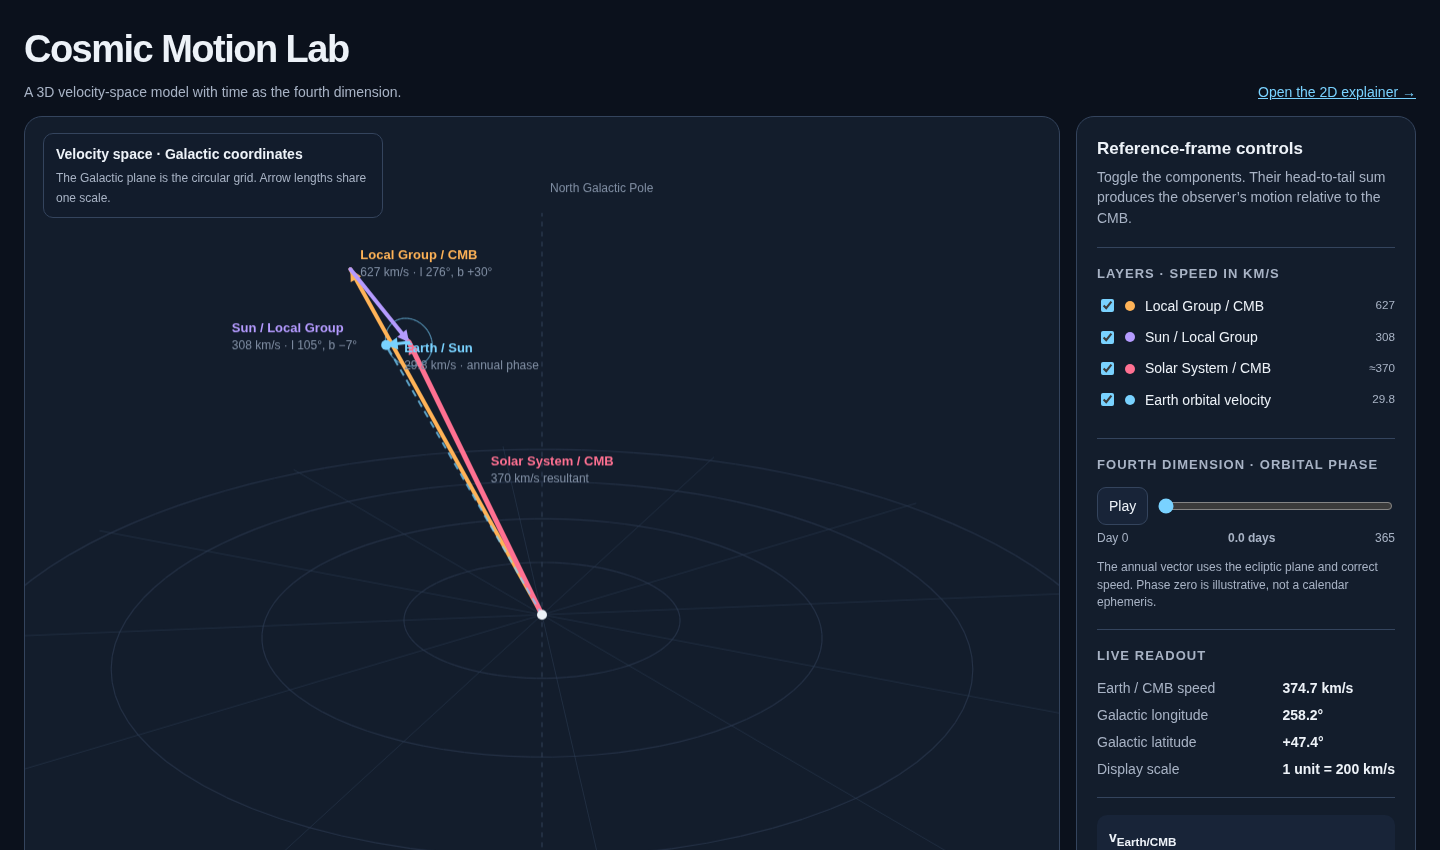
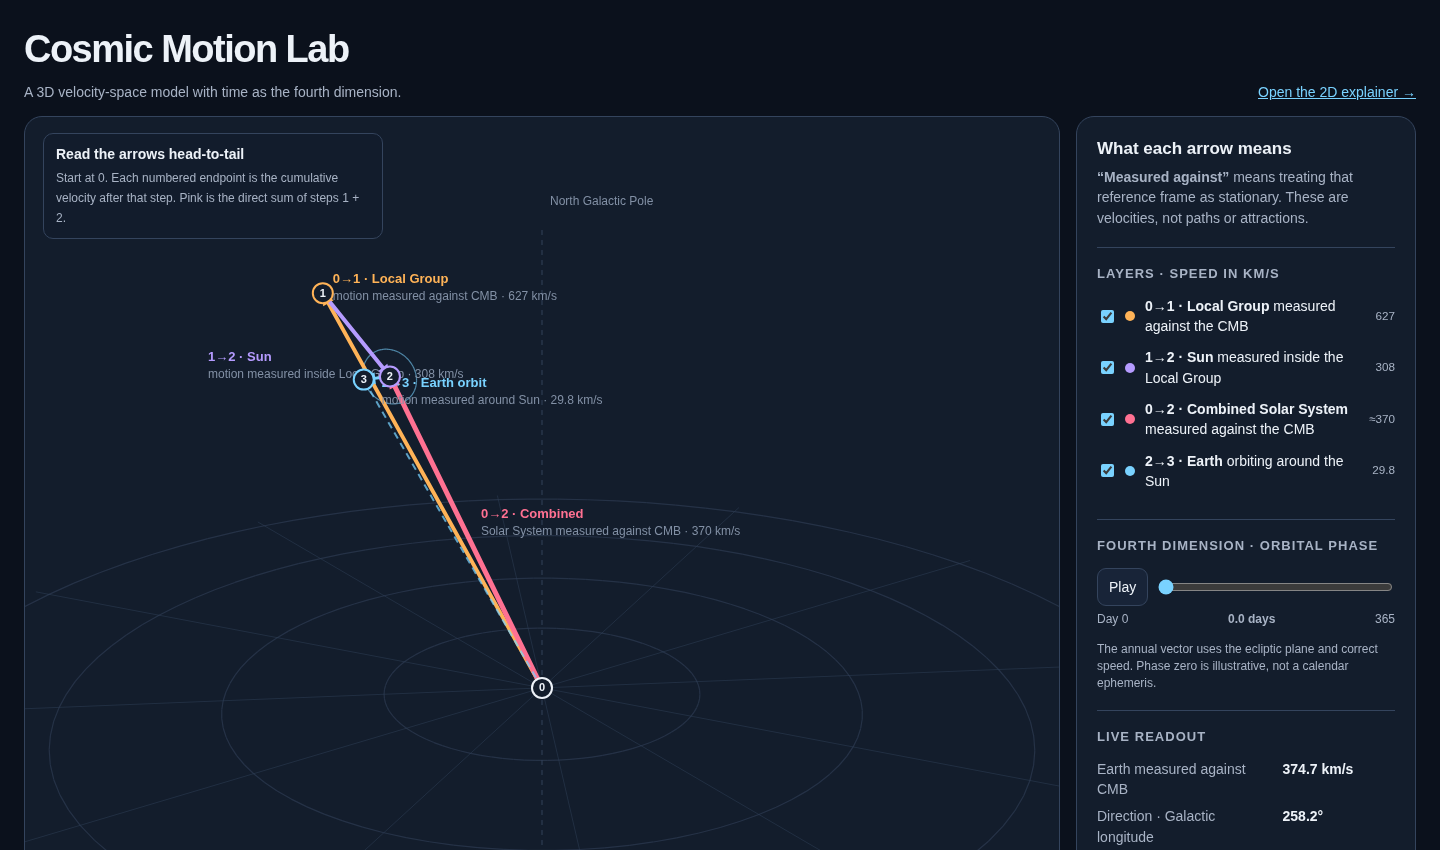
Clarify vector labels and reference frames

diff --git a/index.html b/index.html
@@ -57,18 +57,18 @@
   <main>
     <section class="stage" aria-label="Interactive three-dimensional velocity vector visualization">
       <canvas id="scene">Your browser needs Canvas support to display the interactive model.</canvas>
-      <div class="stage-note"><strong>Velocity space · Galactic coordinates</strong><span>The Galactic plane is the circular grid. Arrow lengths share one scale.</span></div>
+      <div class="stage-note"><strong>Read the arrows head-to-tail</strong><span>Start at 0. Each numbered endpoint is the cumulative velocity after that step. Pink is the direct sum of steps 1 + 2.</span></div>
       <div class="gesture">Drag to rotate · Scroll to zoom · Double-click to reset</div>
     </section>
     <aside>
-      <h2>Reference-frame controls</h2>
-      <p class="intro">Toggle the components. Their head-to-tail sum produces the observer’s motion relative to the CMB.</p>
+      <h2>What each arrow means</h2>
+      <p class="intro"><strong>“Measured against”</strong> means treating that reference frame as stationary. These are velocities, not paths or attractions.</p>
       <section class="group">
         <h3>Layers · speed in km/s</h3>
-        <label class="toggle"><input id="showLG" type="checkbox" checked /><span class="swatch" style="background:var(--cosmic)"></span><span>Local Group / CMB</span><small>627</small></label>
-        <label class="toggle"><input id="showSun" type="checkbox" checked /><span class="swatch" style="background:var(--local)"></span><span>Sun / Local Group</span><small>308</small></label>
-        <label class="toggle"><input id="showResult" type="checkbox" checked /><span class="swatch" style="background:var(--result)"></span><span>Solar System / CMB</span><small>≈370</small></label>
-        <label class="toggle"><input id="showEarth" type="checkbox" checked /><span class="swatch" style="background:var(--earth)"></span><span>Earth orbital velocity</span><small>29.8</small></label>
+        <label class="toggle"><input id="showLG" type="checkbox" checked /><span class="swatch" style="background:var(--cosmic)"></span><span><b>0→1 · Local Group</b> measured against the CMB</span><small>627</small></label>
+        <label class="toggle"><input id="showSun" type="checkbox" checked /><span class="swatch" style="background:var(--local)"></span><span><b>1→2 · Sun</b> measured inside the Local Group</span><small>308</small></label>
+        <label class="toggle"><input id="showResult" type="checkbox" checked /><span class="swatch" style="background:var(--result)"></span><span><b>0→2 · Combined Solar System</b> measured against the CMB</span><small>≈370</small></label>
+        <label class="toggle"><input id="showEarth" type="checkbox" checked /><span class="swatch" style="background:var(--earth)"></span><span><b>2→3 · Earth</b> orbiting around the Sun</span><small>29.8</small></label>
       </section>
       <section class="group">
         <h3>Fourth dimension · orbital phase</h3>
@@ -78,10 +78,10 @@
       </section>
       <section class="group">
         <h3>Live readout</h3>
-        <dl class="readout"><dt>Earth / CMB speed</dt><dd id="earthSpeed">—</dd><dt>Galactic longitude</dt><dd id="earthL">—</dd><dt>Galactic latitude</dt><dd id="earthB">—</dd><dt>Display scale</dt><dd>1 unit = 200 km/s</dd></dl>
+        <dl class="readout"><dt>Earth measured against CMB</dt><dd id="earthSpeed">—</dd><dt>Direction · Galactic longitude</dt><dd id="earthL">—</dd><dt>Direction · Galactic latitude</dt><dd id="earthB">—</dd><dt>Arrow-length scale</dt><dd>1 unit = 200 km/s</dd></dl>
       </section>
       <section class="group">
-        <div class="equation"><b>v<sub>Earth/CMB</sub></b><br />= v<sub>LG/CMB</sub> + v<sub>Sun/LG</sub> + v<sub>Earth/Sun</sub></div>
+        <div class="equation"><b>Final Earth velocity</b><br />Local Group’s cosmic motion <strong>+</strong> Sun’s local motion <strong>+</strong> Earth’s orbital motion</div>
         <p class="warning">This is velocity space, not a literal map of where the objects sit. Position orbits and velocity vectors are different geometries.</p>
       </section>
       <button id="reset" type="button">Reset view</button>
@@ -108,9 +108,10 @@
       function circle3(radius,normal,color,alpha=.55,center=[0,0,0]){const n=norm(normal),seed=Math.abs(n[1])<.9?[0,1,0]:[1,0,0],a=norm(cross(n,seed)),b=norm(cross(n,a));let previous=null;for(let i=0;i<=96;i++){const t=i/96*Math.PI*2,point=add(center,mul(add(mul(a,Math.cos(t)),mul(b,Math.sin(t))),radius));if(previous)line3(previous,point,color,1.2,alpha);previous=point}}
       function drawGrid(){[.8,1.6,2.4,3.2].forEach(r=>circle3(r,[0,1,0],colors.grid,.55));for(let i=0;i<12;i++){const t=i/12*Math.PI*2;line3([0,0,0],[3.3*Math.cos(t),0,3.3*Math.sin(t)],colors.grid,1,.45)}line3([0,-2.25,0],[0,2.25,0],colors.grid,1.2,.8,[5,5]);const n=project([0,2.35,0]);ctx.fillStyle=colors.muted;ctx.font="12px system-ui,sans-serif";ctx.fillText("North Galactic Pole",n.x+8,n.y)}
       function point3(v,r,color){const p=project(v);ctx.beginPath();ctx.arc(p.x,p.y,r,0,Math.PI*2);ctx.fillStyle=color;ctx.fill()}
+      function badge3(v,label,color){const p=project(v);ctx.save();ctx.beginPath();ctx.arc(p.x,p.y,10,0,Math.PI*2);ctx.fillStyle="#131d2c";ctx.fill();ctx.strokeStyle=color;ctx.lineWidth=2;ctx.stroke();ctx.fillStyle=colors.text;ctx.font="700 11px system-ui,sans-serif";ctx.textAlign="center";ctx.textBaseline="middle";ctx.fillText(label,p.x,p.y+.5);ctx.restore()}
       function toGalactic(v){const m=mag(v);let l=Math.atan2(v[2],v[0])/DEG;if(l<0)l+=360;return{speed:m/SPEED_SCALE,l,b:Math.asin(v[1]/m)/DEG}}
       function resize(){const dpr=Math.min(window.devicePixelRatio||1,2),rect=canvas.getBoundingClientRect();canvas.width=Math.round(rect.width*dpr);canvas.height=Math.round(rect.height*dpr);ctx.setTransform(dpr,0,0,dpr,0,0);state.dirty=true}
-      function render(){ctx.clearRect(0,0,canvas.clientWidth,canvas.clientHeight);drawGrid();const vEarth=earthOrbitalVector(state.phase),vObserver=add(vSunCMB,vEarth),narrow=canvas.clientWidth<600;if(ui.showEarth.checked)circle3(29.8*SPEED_SCALE,eclipticNorth,colors.earth,.6,vSunCMB);if(ui.showLG.checked)arrow3([0,0,0],vLG,colors.cosmic,"Local Group / CMB",narrow?"":"627 km/s · l 276°, b +30°",4,narrow?.88:1,narrow?8:10,-10);if(ui.showSun.checked)arrow3(vLG,vSunCMB,colors.local,"Sun / Local Group",narrow?"":"308 km/s · l 105°, b −7°",4,narrow?.3:.45,narrow?10:-145,narrow?54:30);if(ui.showResult.checked)arrow3([0,0,0],vSunCMB,colors.result,"Solar System / CMB",narrow?"":`${toGalactic(vSunCMB).speed.toFixed(0)} km/s resultant`,5,.52,narrow?22:18,narrow?40:-8);if(ui.showEarth.checked){arrow3(vSunCMB,vObserver,colors.earth,"Earth / Sun",narrow?"":"29.8 km/s · annual phase",3,1,narrow?16:18,narrow?-12:7);line3([0,0,0],vObserver,colors.earth,2,.72,[7,5]);point3(vObserver,5,colors.earth)}point3([0,0,0],5,colors.text);const r=toGalactic(vObserver);ui.earthSpeed.textContent=`${r.speed.toFixed(1)} km/s`;ui.earthL.textContent=`${r.l.toFixed(1)}°`;ui.earthB.textContent=`${r.b>=0?"+":""}${r.b.toFixed(1)}°`;ui.phaseValue.textContent=`${state.phase.toFixed(1)} days`}
+      function render(){ctx.clearRect(0,0,canvas.clientWidth,canvas.clientHeight);drawGrid();const vEarth=earthOrbitalVector(state.phase),vObserver=add(vSunCMB,vEarth),narrow=canvas.clientWidth<600;if(ui.showEarth.checked)circle3(29.8*SPEED_SCALE,eclipticNorth,colors.earth,.6,vSunCMB);if(ui.showLG.checked)arrow3([0,0,0],vLG,colors.cosmic,"0→1 · Local Group",narrow?"":"motion measured against CMB · 627 km/s",4,narrow?.88:1,narrow?8:10,-10);if(ui.showSun.checked)arrow3(vLG,vSunCMB,colors.local,"1→2 · Sun",narrow?"":"motion measured inside Local Group · 308 km/s",4,narrow?.3:.45,narrow?10:-145,narrow?54:30);if(ui.showResult.checked)arrow3([0,0,0],vSunCMB,colors.result,"0→2 · Combined",narrow?"":`Solar System measured against CMB · ${toGalactic(vSunCMB).speed.toFixed(0)} km/s`,5,.52,narrow?22:18,narrow?40:-8);if(ui.showEarth.checked){arrow3(vSunCMB,vObserver,colors.earth,"2→3 · Earth orbit",narrow?"":"motion measured around Sun · 29.8 km/s",3,1,narrow?16:18,narrow?-12:7);line3([0,0,0],vObserver,colors.earth,2,.72,[7,5])}badge3([0,0,0],"0",colors.text);if(ui.showLG.checked)badge3(vLG,"1",colors.cosmic);if(ui.showSun.checked)badge3(vSunCMB,"2",colors.local);if(ui.showEarth.checked)badge3(vObserver,"3",colors.earth);const r=toGalactic(vObserver);ui.earthSpeed.textContent=`${r.speed.toFixed(1)} km/s`;ui.earthL.textContent=`${r.l.toFixed(1)}°`;ui.earthB.textContent=`${r.b>=0?"+":""}${r.b.toFixed(1)}°`;ui.phaseValue.textContent=`${state.phase.toFixed(1)} days`}
       function frame(time){if(state.playing){const elapsed=state.lastTime?time-state.lastTime:0;state.phase=(state.phase+elapsed*365.25/12000)%365.25;ui.phase.value=state.phase;state.dirty=true}state.lastTime=time;if(state.dirty){render();state.dirty=false}requestAnimationFrame(frame)}
       function resetView(){state.yaw=-.62;state.pitch=.43;state.zoom=1;state.dirty=true}
       canvas.addEventListener("pointerdown",e=>{state.drag={x:e.clientX,y:e.clientY,yaw:state.yaw,pitch:state.pitch};canvas.setPointerCapture(e.pointerId)});
